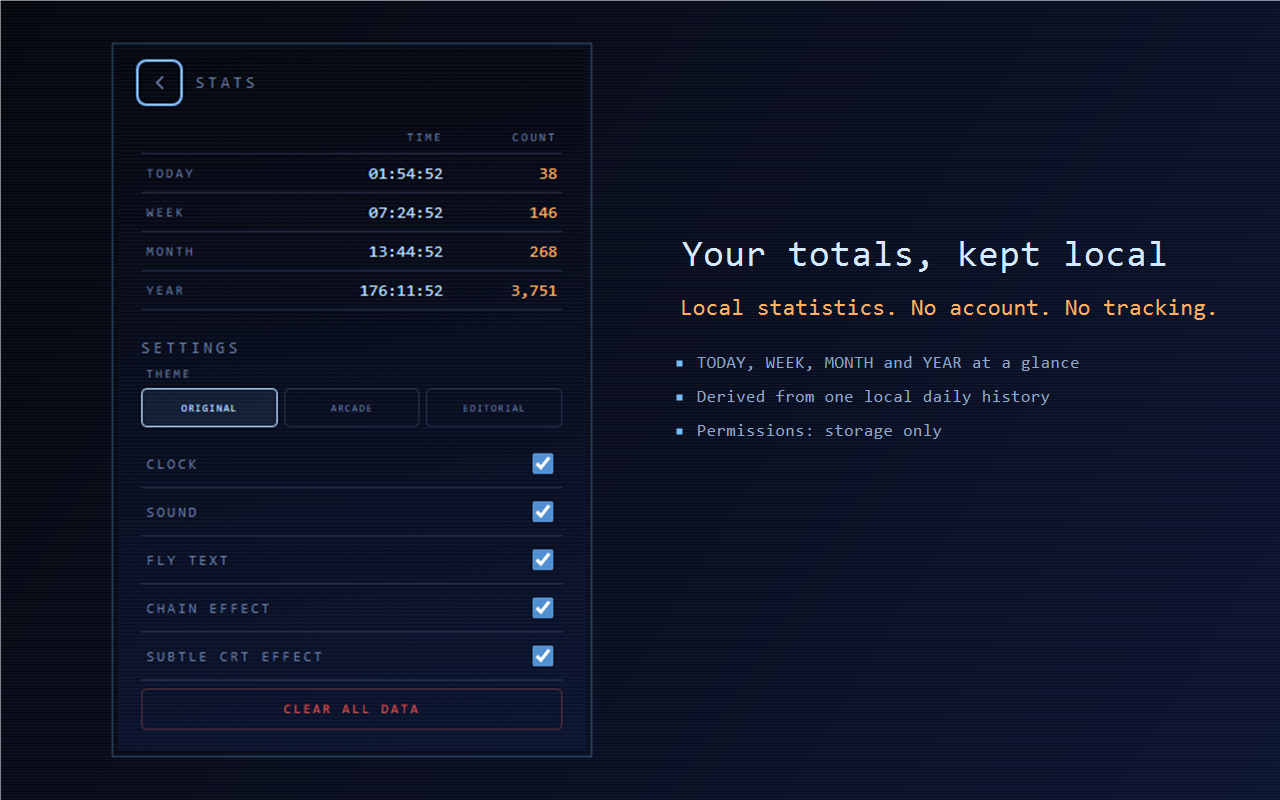
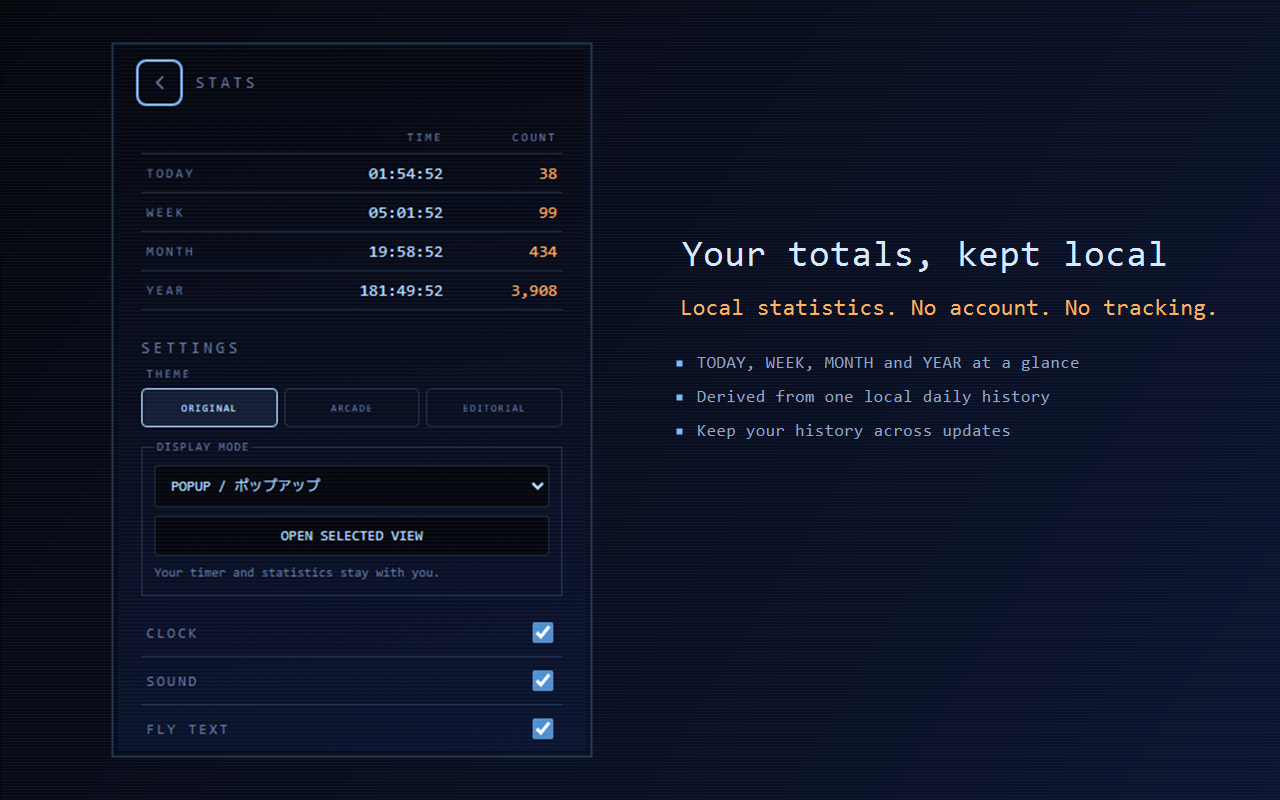
Prepare version 0.2.0 Chrome Web Store submission materials (#2)

diff --git a/store-listing/en-US.md b/store-listing/en-US.md
@@ -1,7 +1,7 @@
 # Chrome Web Store listing — en-US
 
 Copy each field below into the corresponding box in the Developer Dashboard.
-Nothing here describes a feature that is not in 0.1.3.
+This listing describes version 0.2.0.
 
 ---
 
@@ -37,7 +37,13 @@ English (United States). A Japanese listing is prepared in `ja.md`.
 ## Detailed description
 
 ```
-Arcade Counter Timer is a count-up timer and a tally counter in one small popup. It stays quiet while you work, and turns into a little arcade machine for a fraction of a second when you hit a milestone.
+Arcade Counter Timer combines a count-up timer and a tally counter. Choose a toolbar popup, a draggable timer on a web page, or Chrome's side panel. It stays quiet while you work and celebrates milestones with brief arcade-style feedback.
+
+CHOOSE YOUR PLACEMENT
+Open settings with the gear icon and select POPUP, FLOATING or SIDE PANEL. The floating timer supports dragging, position memory, compact/full size and a position lock. To place it on a new page, click the extension icon on that page. Chrome settings, the Web Store and other protected pages do not support floating placement. Keyboard shortcuts apply while the timer itself has focus.
+
+UPDATES THAT KEEP YOUR RECORDS
+Normal updates to this same extension keep your statistics and settings. Version 0.2.0 also keeps a local pre-update snapshot and stops automatically deleting older daily history. After a version upgrade, a themed NEW FEATURE strip appears once below COUNT. It does not appear on fresh installation or each reopening. Uninstalling removes local data; update the existing extension to keep your records.
 
 TIMER
 Press START to begin and STOP to pause. The time is shown as HH:MM:SS and stays correct past 100 hours. The timer keeps running while the popup is closed and after you restart the browser, because elapsed time is calculated from a saved timestamp rather than from a running script. An optional small clock in the header shows the current local time.
@@ -64,7 +70,7 @@ KEYBOARD
 Enter starts and stops the timer. Space adds a count. Holding R resets the session. Escape returns from the statistics screen.
 
 PRIVACY
-Arcade Counter Timer works entirely on your device. It requests one permission, storage, and no host permissions. It has no content scripts and no background service worker, so it cannot see the pages you visit. It makes no network requests, includes no remote code, and has no account, no advertising, no analytics and no cloud sync. Your timer state, count, daily history and settings are kept in local extension storage and never leave your computer.
+Arcade Counter Timer works entirely on your device. It uses storage to save your records, activeTab and scripting to insert the floating timer only when you invoke it, and sidePanel for the native side panel. It has no persistent host permissions. The inserted code positions its own UI; it does not extract webpage text, forms or browsing history. A local background worker keeps open views in sync. No network requests, remote code, accounts, advertising, analytics or cloud sync are used. Your records stay in local extension storage.
 
 Free and open source, licensed under GPL-3.0-only.
 ```
@@ -94,7 +100,7 @@ Free and open source, licensed under GPL-3.0-only.
 | Esc | Leave the statistics screen |
 
 The extension does not register any browser-level command shortcuts; these keys
-work inside the popup only.
+work while the timer view has focus, in any of its three display modes.
 
 ---
 
@@ -110,8 +116,10 @@ Arcade Counter Timer provides a local count-up timer and tally counter with opti
 The storage permission is used to save timer state, session count, daily history, selected theme, and user settings locally so they remain available after the popup closes or the browser restarts.
 ```
 
-No other permission is requested. There are no host permissions, no optional
-permissions, no content scripts and no background service worker.
+Version 0.2.0 also requests activeTab, scripting and sidePanel. Copy their
+separate justifications from `privacy-declarations.md`. No persistent host
+permissions or automatically running content scripts are requested. A packaged
+background service worker serializes local writes across views.
 
 ## Remote code
 

diff --git a/store-listing/review-notes.md b/store-listing/review-notes.md
@@ -3,7 +3,7 @@
 Paste into the **Notes for reviewers** box in the Developer Dashboard.
 
 ```
-Arcade Counter Timer is a count-up timer and a tally counter that runs entirely inside its popup. There is nothing to sign in to and nothing to configure before use.
+Arcade Counter Timer is a local count-up timer and tally counter with a popup, user-triggered floating view and native Chrome side panel. No login or external service is required. This is a 0.1.3 to 0.2.0 update of the existing item; keep the same extension ID.
 
 How to test:
 
@@ -13,14 +13,17 @@ How to test:
 4. Press COUNT several times in quick succession. A short line of text (GOOD!, NICE!, GREAT!, FANTASTIC!) appears briefly, and every tenth count shows a CHAIN effect with a short generated sound.
 5. Click the gear icon in the top right to see TODAY / WEEK / MONTH / YEAR statistics and the settings. Select Original, Arcade or Editorial to change the visual theme; timer and counter behavior stays the same. Sound and the visual effects can each be switched off here. Press Escape or the back arrow to return.
 6. Press and hold RESET TIMER or RESET COUNT for about half a second to reset one of them; hold SESSION RESET (or the R key) for about two thirds of a second to reset both. A short click deliberately does nothing. Statistics are preserved by all three.
-7. CLEAR ALL DATA, at the bottom of the statistics screen, resets everything including statistics and settings, after a confirmation dialog.
+7. On a regular HTTPS webpage, open settings and select FLOATING, then open the selected view. Drag the header, switch size, lock the position and count. Chrome settings and the Chrome Web Store are protected pages and cannot host the floating view. Click the toolbar icon on a different normal page to place it there.
+8. Select SIDE PANEL and open it, then select POPUP to return. All views share timer/count/statistics and persist display preferences. Floating mode does not require permanent host permissions.
+9. Upgrade the same extension from 0.1.3 to 0.2.0 with existing statistics. Confirm records remain and NEW FEATURE appears once below COUNT on the first visible main view. It must not replay on reopening, same-version reload or fresh installation. A raw pre-upgrade snapshot is retained locally; history is no longer age-pruned.
+10. CLEAR ALL DATA, at the bottom of settings, clears statistics and settings after confirmation. A notice receipt remains to prevent replay. Use disposable test data for this destructive check; it is not part of the update procedure.
 
 Notes:
 
 - No account, login, or external service is required or offered.
 - There are no paid features, no in-app purchases and no advertising.
 - The extension makes no network requests. It contains no remote code, no external scripts, no CDN references and no external fonts. All sound is synthesised at runtime with the Web Audio API; there are no audio files in the package.
-- All data is stored locally with chrome.storage.local: timer state, session count, a per-day history used for the statistics, the selected theme, and the five settings toggles.
-- Permissions: "storage" only. No host permissions, no content scripts, no background service worker, so the extension has no access to any web page.
+- Local storage holds timer/count/history/settings, display preferences, the upgrade snapshot and notice receipt. Session storage holds temporary tab-bound grants for floating views.
+- Permissions: storage, activeTab, scripting and sidePanel. No persistent host permissions. User-triggered packaged code inserts its own UI without extracting page contents; a packaged worker serializes shared state writes.
 - Source code is available under GPL-3.0-only.
 ```

diff --git a/store-listing/privacy-declarations.md b/store-listing/privacy-declarations.md
@@ -19,7 +19,25 @@ Arcade Counter Timer provides a local count-up timer and tally counter with opti
 **`storage`**
 
 ```
-The storage permission is used to save timer state, session count, daily history, selected theme, and user settings locally so they remain available after the popup closes or the browser restarts.
+The storage permission saves timer state, session count, daily history, theme, settings, display preferences, upgrade backup and one-time notice receipts on the device. Session storage temporarily holds tab-bound grants for floating views. No data is sent to a server.
+```
+
+**`activeTab`**
+
+```
+Temporary access to the tab where the user invokes the extension is needed to display the floating timer. It is used only after user interaction, with no persistent access to all sites. The extension does not extract page text, form contents or browsing history.
+```
+
+**`scripting`**
+
+```
+Injects packaged code that inserts the floating timer into the user-authorized tab. The code creates only the timer container, handles its drag/size/lock controls and reads viewport dimensions for positioning. It does not collect the webpage's contents or load remote code.
+```
+
+**`sidePanel`**
+
+```
+Displays the same timer, tally counter and local statistics in Chrome's native side panel when the user selects that display mode.
 ```
 
 **Host permissions** — none requested, so no justification is required. If the
@@ -31,7 +49,7 @@ Dashboard asks anyway, state that the extension requests no host permissions.
 No. The extension does not use remote code.
 ```
 
-All logic ships inside the package: `popup.js` and the modules in `src/`. There
+All logic ships inside the package: `background.js`, `popup.js` and the modules in `src/`. There
 is no `eval`, no `new Function`, no external `<script>`, no CDN, no external
 fonts, and no dynamic import of anything fetched at runtime.
 
@@ -45,13 +63,15 @@ fonts, and no dynamic import of anything fetched at runtime.
 | Authentication information | **No** | No sign-in of any kind |
 | Personal communications | **No** | No access to messages or mail |
 | Location | **No** | No geolocation API use, no IP handling |
-| Web history | **No** | No `tabs`, `history` or host permissions |
-| User activity (clicks, keystrokes, mouse position) | **No external collection** | Key and click input drives the timer and counter in the popup and is not recorded or transmitted |
-| Website content (text, images, page data) | **No** | No content scripts and no host permissions, so page content is unreachable |
+| Web history | **No** | Temporary activeTab metadata is used only to place the timer; page URLs/titles are not stored or transmitted |
+| User activity (clicks, keystrokes, mouse position) | **No external collection** | Timer inputs update local totals; dragging saves only the timer position. General browsing activity is not recorded or transmitted |
+| Website content (text, images, page data) | **No** | User-triggered injected code positions its own UI and does not extract webpage text, forms or other content |
 
-The only data that exists at all is the extension's own state — timer values,
-session count, daily history, selected theme and settings — written to
-`chrome.storage.local` on the user's device.
+The extension stores its own timer values, session count, daily history, theme,
+settings, display preferences, upgrade backup and notice receipts in local
+storage. Temporary tab-bound floating-view grants are held in session storage.
+Both are on the user's device. No user data is transmitted or collected by the
+developer. Read the live Dashboard labels before applying these declarations.
 
 ## Data handling certifications
 

diff --git a/store-listing/submission-checklist.md b/store-listing/submission-checklist.md
@@ -9,15 +9,16 @@ the declarations and the final "Submit for review" are all manual.**
 - [ ] `npm test` passes
 - [ ] `npm run verify` passes
 - [ ] `npm run package` has produced
-      `dist/arcade-counter-timer-v0.1.3-chrome-web-store.zip`
+      `dist/arcade-counter-timer-v0.2.0-chrome-web-store.zip`
 - [ ] The ZIP has been loaded unpacked in Chrome once and manually exercised
 - [ ] The URLs in `urls.md` still load
 
 ## Package
 
-- [ ] Upload `dist/arcade-counter-timer-v0.1.3-chrome-web-store.zip`
-- [ ] The Dashboard's manifest analysis reports version **0.1.3**
-- [ ] It reports the **storage** permission and nothing else
+- [ ] Open the existing published Arcade Counter Timer item; retain its ID
+- [ ] Upload `dist/arcade-counter-timer-v0.2.0-chrome-web-store.zip`
+- [ ] The Dashboard's manifest analysis reports version **0.2.0**
+- [ ] It reports **storage, activeTab, scripting and sidePanel**
 - [ ] It reports no host permissions and no remote code warnings
 - [ ] The item name and description are picked up from `_locales/en` — the
       Dashboard shows the English text, not `__MSG_extensionName__`
@@ -50,6 +51,7 @@ wording before entering them.
 
 - [ ] Single purpose statement
 - [ ] `storage` permission justification
+- [ ] `activeTab`, `scripting` and `sidePanel` justifications
 - [ ] Remote code: **No**
 - [ ] Data collection: none of the categories apply
 - [ ] The three data-handling certifications ticked
@@ -57,9 +59,7 @@ wording before entering them.
 
 ## Distribution
 
-- [ ] Visibility chosen deliberately: **Unlisted** is the safer first submission;
-      switch to Public once the listing has been reviewed end to end
-- [ ] Distribution regions selected
+- [ ] Preserve the existing published item's visibility and regions
 - [ ] Pricing: free
 
 ## Support and links
@@ -80,5 +80,5 @@ Fill in from `urls.md` — leave blank rather than entering a guess.
 ## After submission
 
 - [ ] Record the item ID
-- [ ] Tag the release in git and publish release notes from `CHANGELOG.md`
+- [ ] Record submission/review/publication status accurately; do not label a pending review as published
 - [ ] Add the store URL to `README.md` and `README_JA.md`

diff --git a/store-listing/update-v0.2.0.md b/store-listing/update-v0.2.0.md
@@ -1,4 +1,4 @@
-# 0.2.0 release candidate — publication pending approval
+# 0.2.0 Chrome Web Store update
 
 Floating placement, native side panel, existing popup, and one-time themed
 release notices. Same-ID updates preserve statistics. No automatic age pruning.
@@ -14,8 +14,20 @@ release notices. Same-ID updates preserve statistics. No automatic age pruning.
 
 The previous 0.1.x permission/privacy declarations and screenshots are historical
 and must not be submitted as 0.2.0 declarations. Use the current PRIVACY files
-and new UI captures. Approval is required before publishing or applying the
-permission expansion to an installed copy. No publication is performed by tests.
+and new UI captures. The owner approved proceeding with this Store update on
+2026-09-22 after testing and merging PR #1. No publication is performed by tests.
+
+## Submission
+
+Use the existing Arcade Counter Timer item, currently version 0.1.3; do not
+create a new item. Upload the ZIP in this kit, copy the detailed descriptions
+from listing-en-US.md and listing-ja.md into the existing locales, and replace
+outdated screenshots with the four current screenshots in the kit.
+
+Enter all four permission justifications from privacy-declarations.md, retain
+the existing distribution, and add review-notes.md as reviewer instructions.
+Submit for review with automatic publication after approval. Record the actual
+Dashboard status; submitted for review is not the same as publicly available.
 
 ## Update/rollback
 
@@ -24,7 +36,7 @@ timer/count, theme and explicit OFF settings remain. The upgrade retains a
 separate raw snapshot under upgradeBackupV020. Legacy stateVersion remains 2.
 Already-pruned data cannot be recovered.
 
-Keep the release candidate uninstalled in the user's profile until approved.
+The owner has tested an unpacked copy. Its data is separate if its ID differs.
 Rollback must keep the same extension identity and preserve a complete local
 data export first. Reverting to 0.1.3 reintroduces that version's age pruning and
 does not show 0.2.0 notices. Do not suggest uninstall/reinstall as rollback.

diff --git a/README.md b/README.md
@@ -186,7 +186,7 @@ test dependency.
 Everything happens on your machine. See [PRIVACY.md](PRIVACY.md) for the full
 statement.
 
-- **Permissions:** `storage`, and nothing else
+- **Permissions:** `storage`, `activeTab`, `scripting` and `sidePanel`
 - No persistent host permissions; user-requested floating UI and a local state worker
 - No network requests, no analytics, no ads, no account, no cloud sync
 - Timer state, session count, daily history and settings live in
@@ -198,7 +198,7 @@ statement.
 - One timer and one counter — no named tasks or multiple counters
 - Statistics are numbers only; no graphs or export
 - Time that elapses while the popup is closed is credited to the correct days,
-  but written to storage the next time the popup is opened
+  but written to storage with the next timer, count or settings change
 - If the system clock jumps backwards, the affected interval counts as zero
 - Only the extension name and description are localized (English and Japanese);
   the popup interface itself is English only
